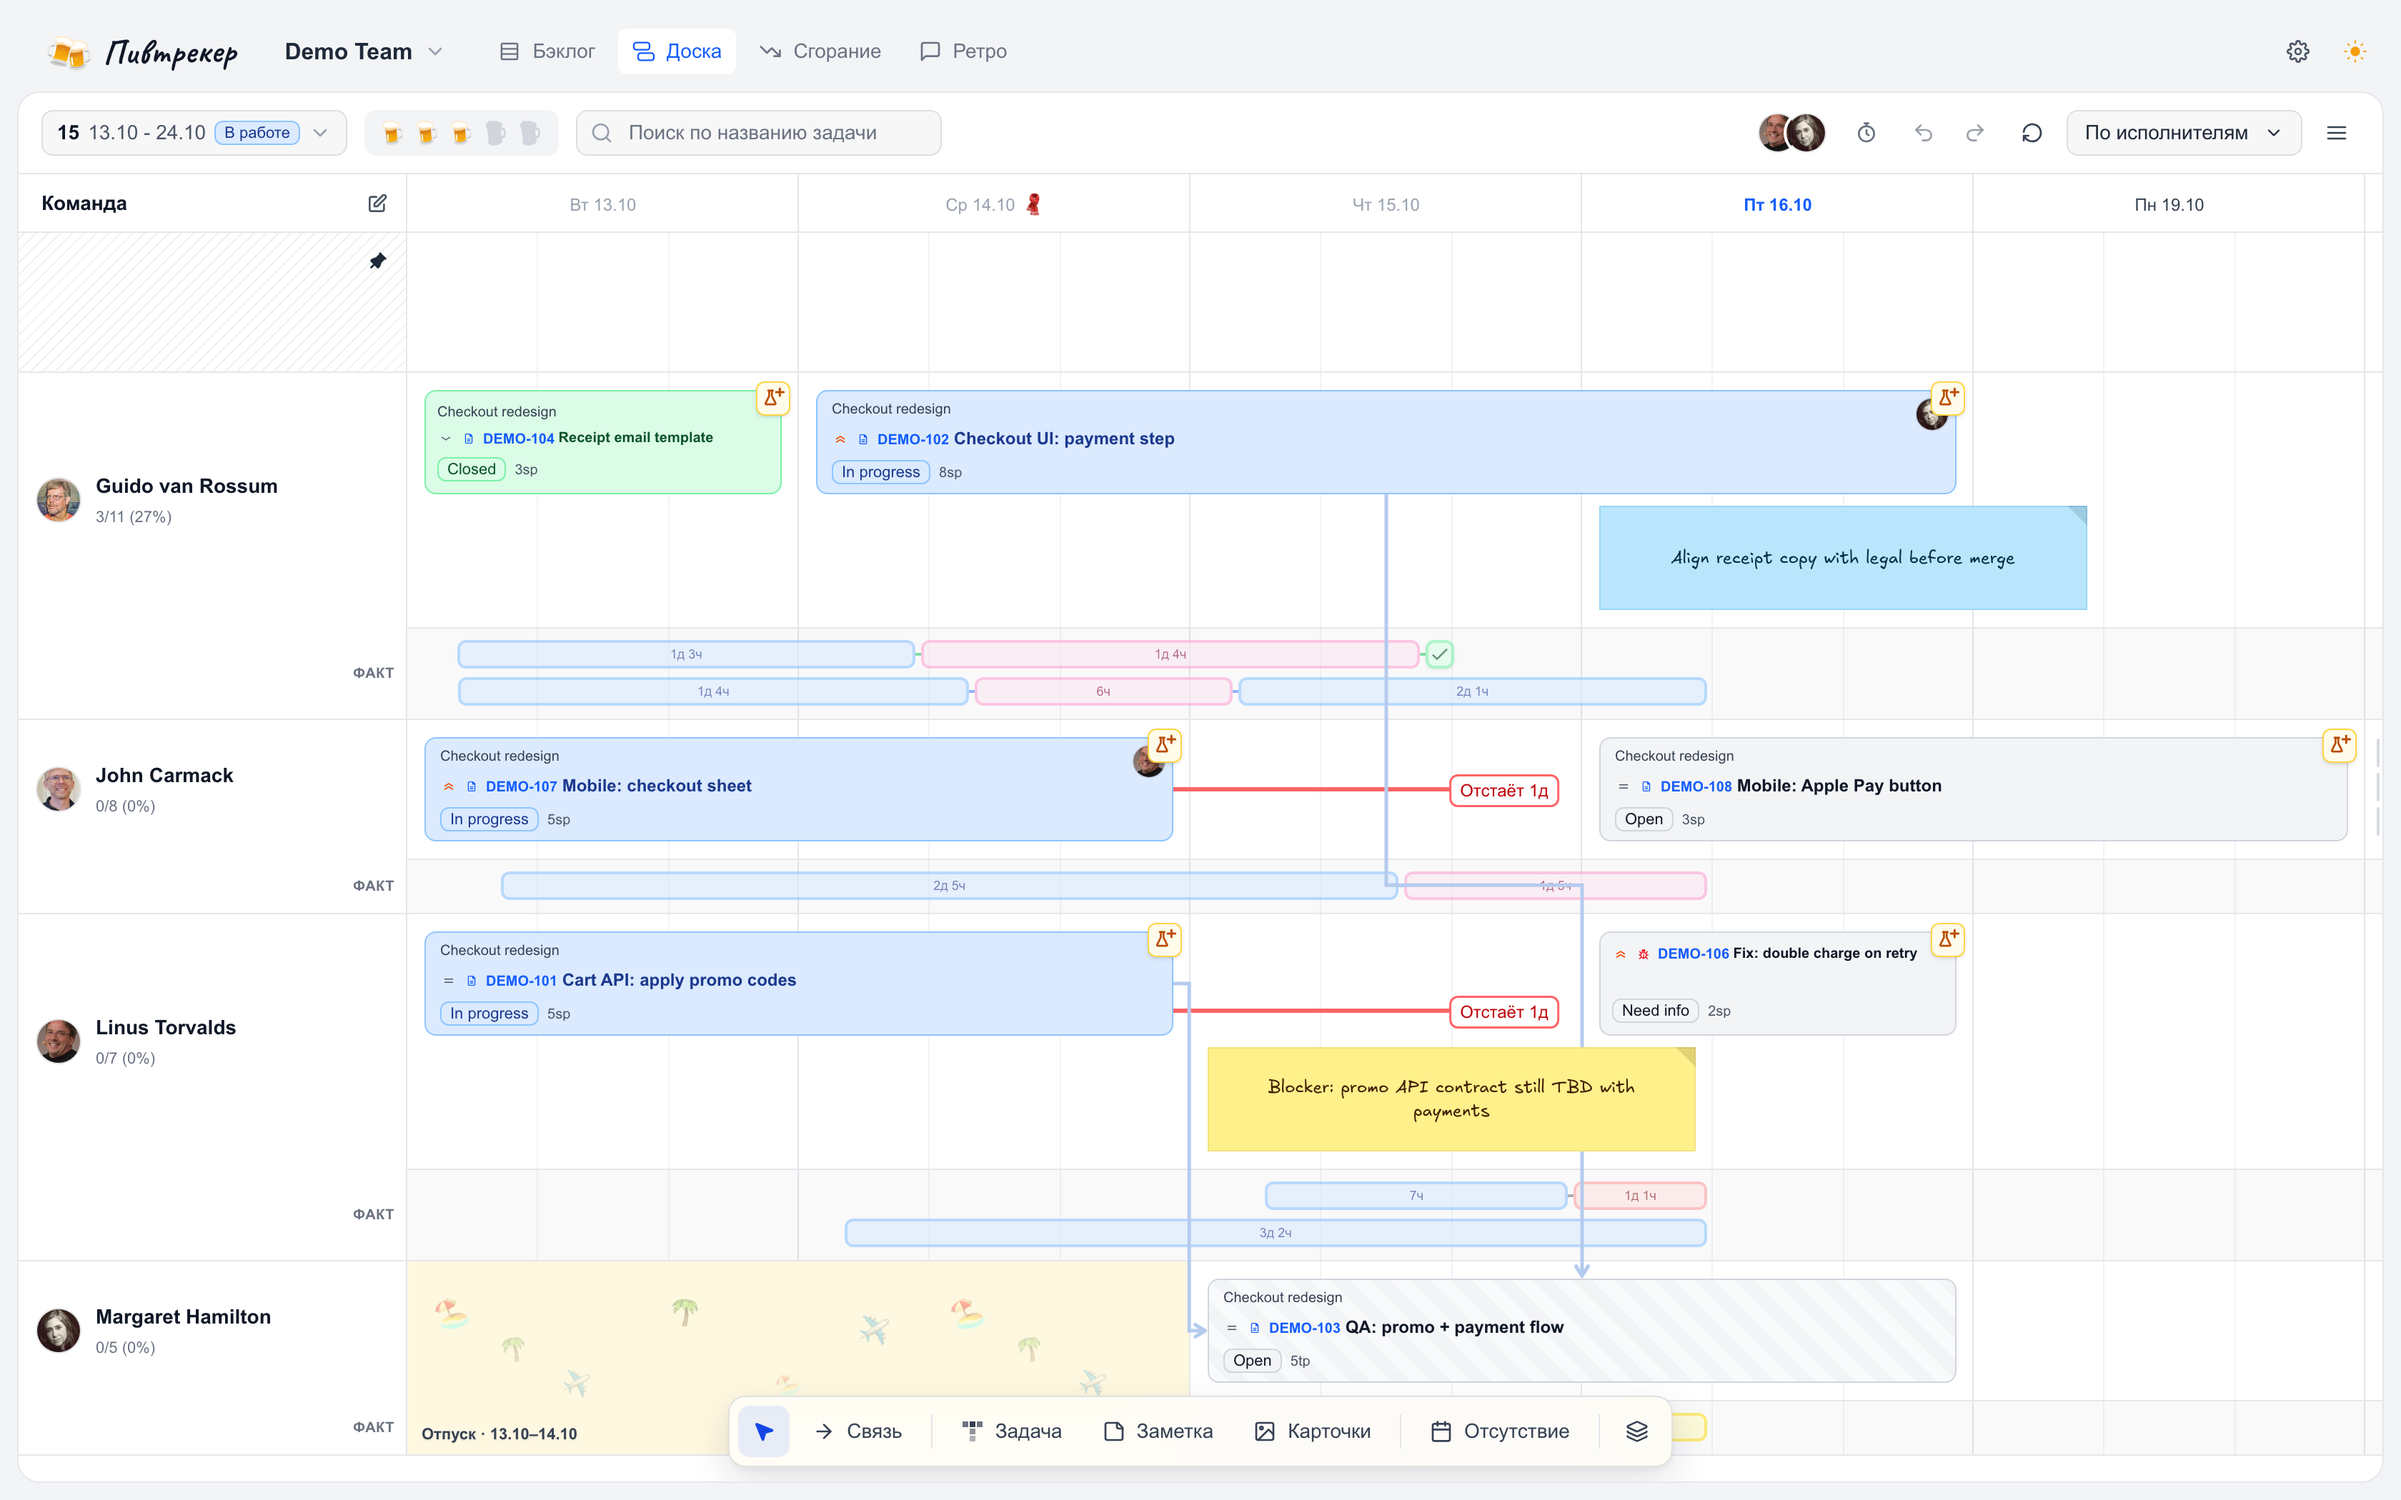
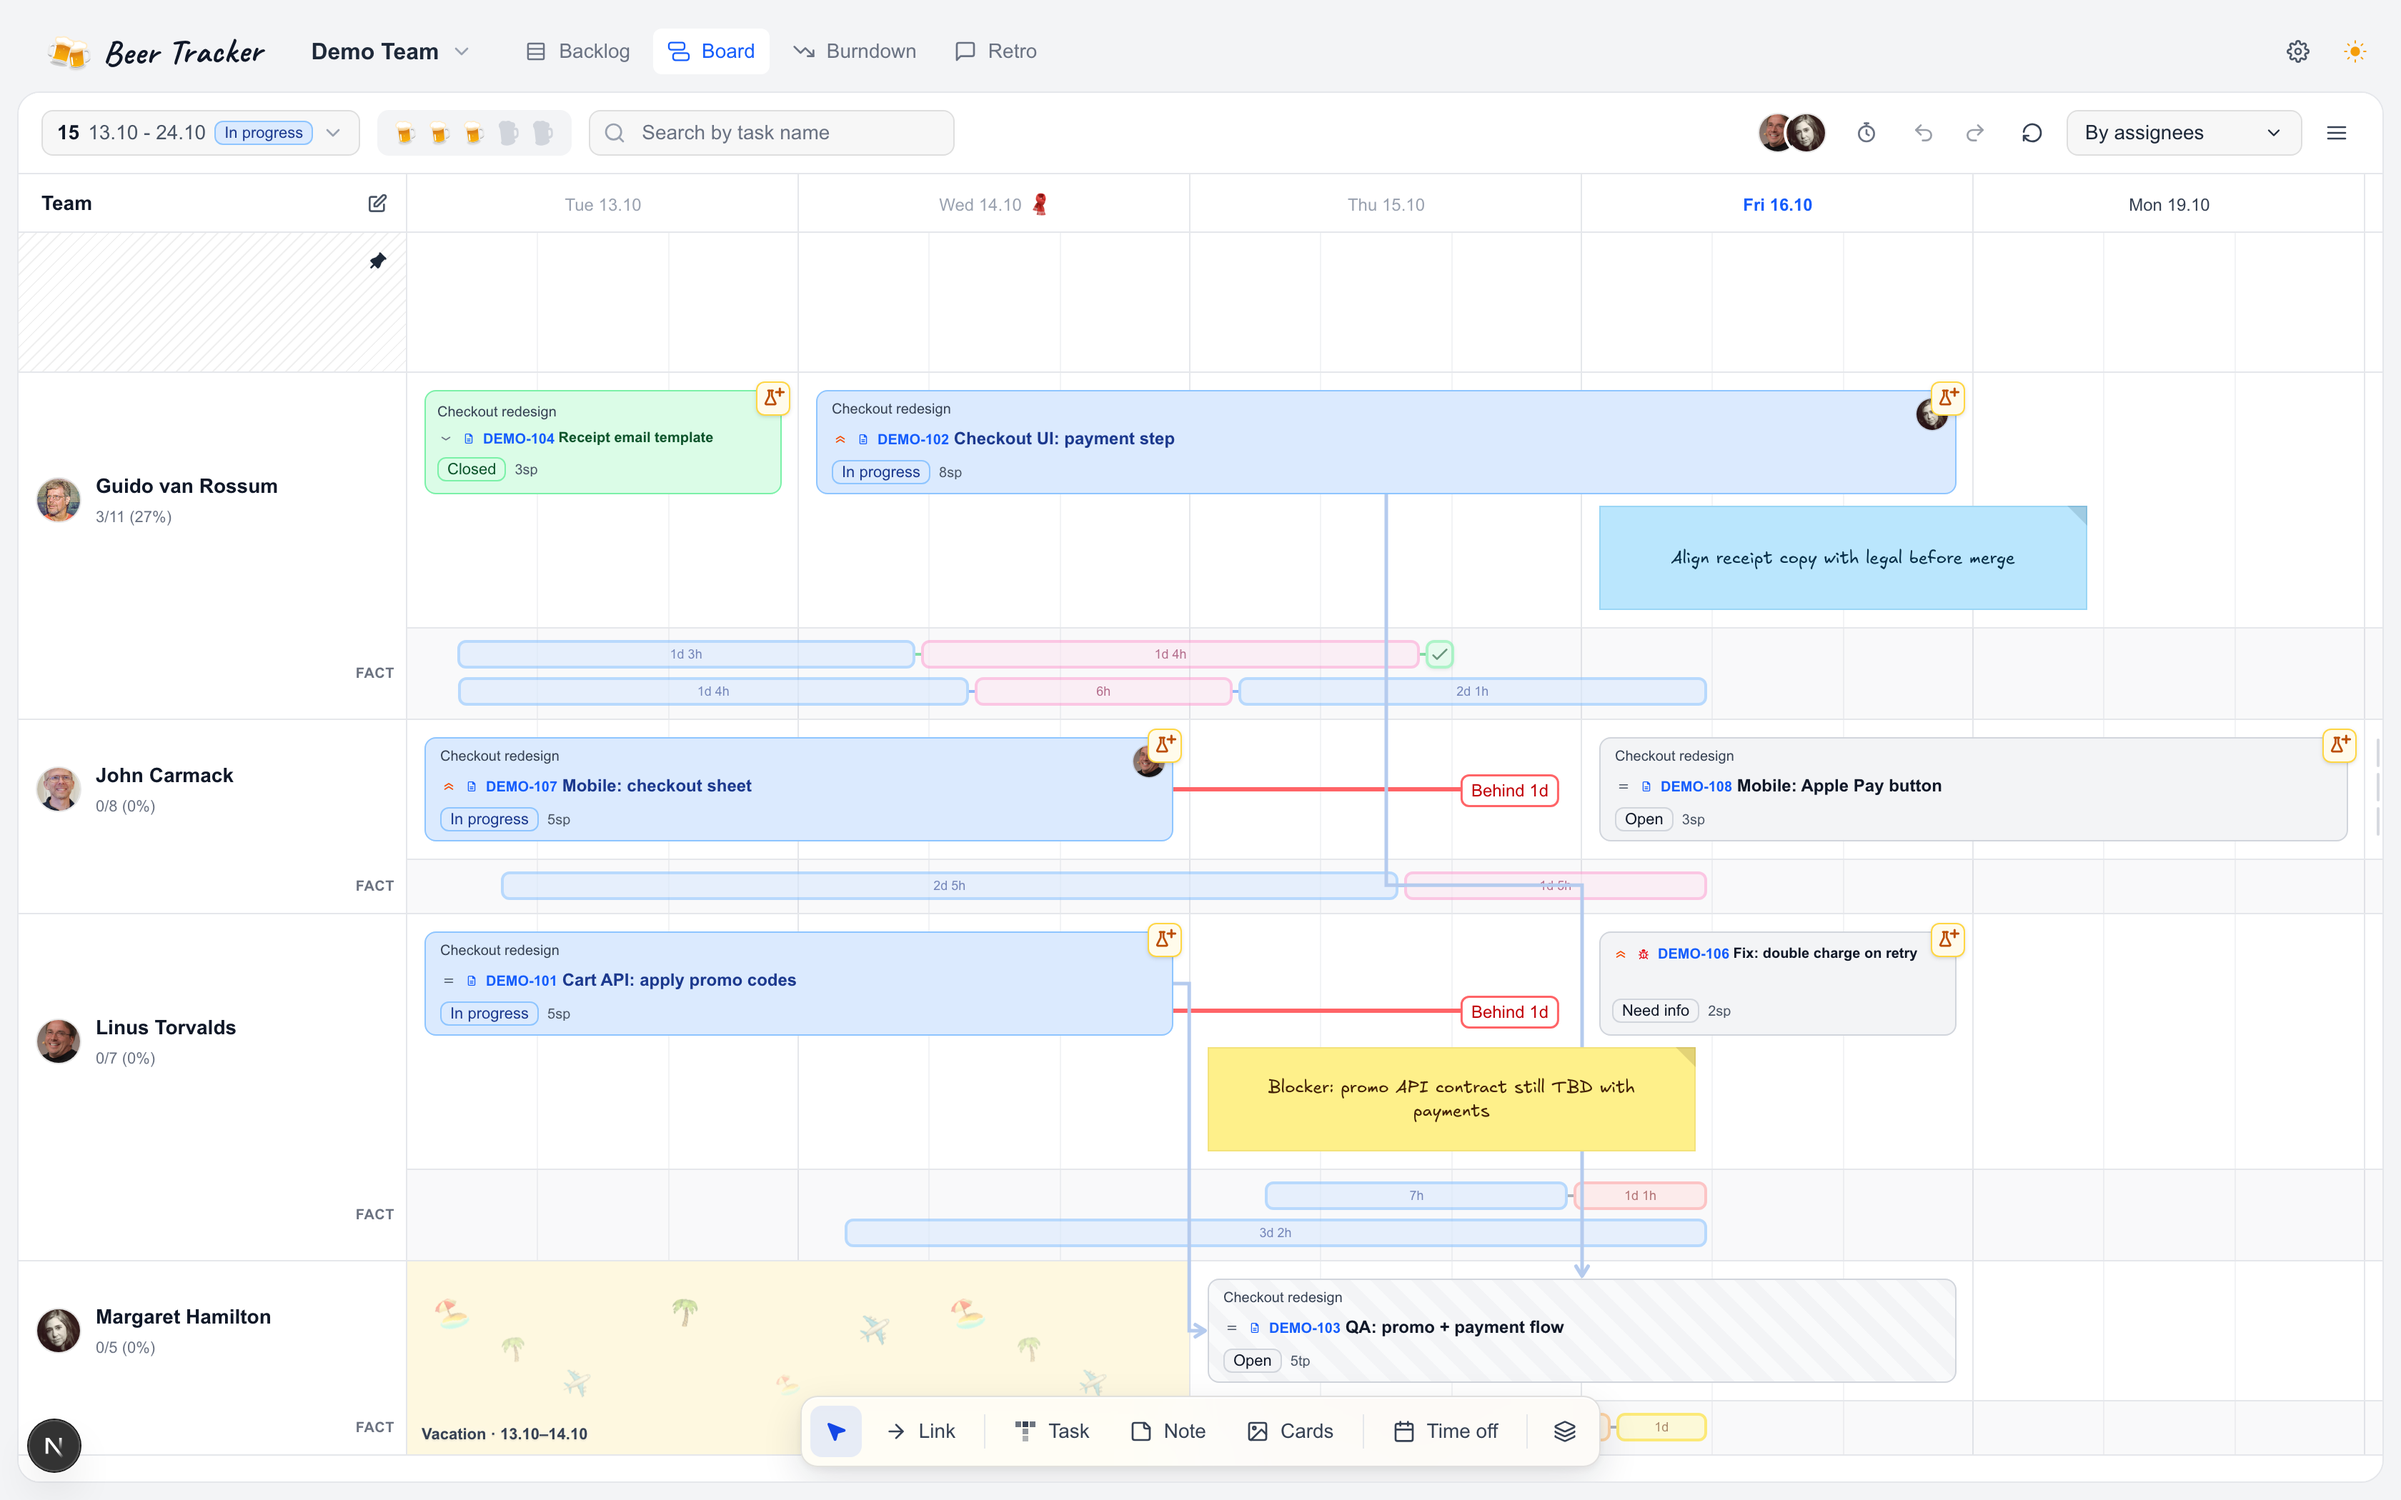
docs: Собирает посадочную README вокруг экранов планера

diff --git a/docs/media/README.md b/docs/media/README.md
@@ -4,7 +4,7 @@
 
 | Файл | Что | Источник |
 |------|-----|----------|
-| `logo-button-light.svg` / `logo-button-dark.svg` | Бренд без фона (кружка + Caveat), цвет текста под тему | сгенерировано из `beer-mug.svg` + Caveat Bold |
+| `logo-button-light.png` / `logo-button-dark.png` | Бренд без фона: две кружки из `public/assets/beer-emoji.json` и Caveat, цвет текста под тему | кадр покоя лотти шапки |
 | `swimlane-light.png` / `swimlane-dark.png` | Свимлейны | Board, сайдбар закрыт |
 | `backlog-light.png` / `backlog-dark.png` | Бэклог | Backlog |
 | `burndown-light.png` / `burndown-dark.png` | Burndown SP/TP | Burndown |
@@ -17,7 +17,7 @@
 ## Как обновить скрины
 
 1. `pnpm docker:dev` → [http://localhost:3000/demo/planner](http://localhost:3000/demo/planner)
-2. Светлая / тёмная тема в шапке; вкладки Board / Backlog / Burndown / Retro
+2. Язык интерфейса — английский (кадры на посадочной в одном языке). Светлая / тёмная тема в шапке; вкладки Board / Backlog / Burndown / Retro
 3. Закройте сайдбар и онбординг, кадр ~1680×1050 → соответствующие `*-light.png` / `*-dark.png` в этой папке. Факт — с включённым «Таймлайн факта под свимлейном».
 
 ## Светлая / тёмная в README
